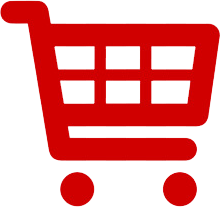
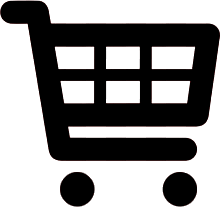
agregando un aside desplegable

diff --git a/css/estilo.css b/css/estilo.css
@@ -140,11 +140,11 @@ header{
 .carts a:hover{
     background: #fff;
     color: red;
-    border: solid 2px red;
+    border: solid 2px rgb(0, 0, 0);
     transition-duration: .3s;
 }
 
-/*float cart*/
+
 .cart-products .item img{
     width: 115px;
 }
@@ -184,3 +184,79 @@ header{
 .cart-products .item .item-content h5.cart-price{
     font-weight: 700;
 }
+
+.sidenav {
+    height: 100%; 
+    width: 0; 
+    position:fixed;
+    z-index: 1; 
+    top: 10;
+    left: 0;
+    background-color: #e4e4e8; 
+    overflow-x: hidden; 
+    padding-top: 60px; 
+    transition: 0.5s;
+}
+
+
+.sidenav a {
+    padding: 8px 8px 8px 32px;
+    text-decoration: none;
+    font-size: 25px;
+    font-weight: 600;
+    color: red;
+    display: block;
+    transition: 0.3s
+
+}
+
+
+.sidenav a:hover, .offcanvas a:focus{
+    color: black;
+}
+
+
+.sidenav .closebtn {
+    position: absolute;
+    top: 0;
+    right: 25px;
+    font-size: 36px;
+    margin-left: 50px;
+}
+
+#main {
+    transition: margin-left .5s;
+    padding: 20px;
+    overflow:hidden;
+    width:100%;
+}
+
+.topnav {
+    background-color: rgb(255, 0, 0);
+    overflow: hidden;
+}
+
+
+.topnav a {
+    float: left;
+    display: block;
+    color: #f2f2f2;
+    text-align: center;
+    padding: 14px 16px;
+    text-decoration: none;
+    font-size: 17px;
+}
+
+
+.topnav a:hover {
+    background-color: #ddd;
+    color: black
+}
+
+
+.topnav a.active {
+    background-color: #4CAF50;
+    color: white;
+}
+
+

diff --git a/index.html b/index.html
@@ -33,16 +33,21 @@
             </div>
         </div>
     </header>
-    <aside class="comidaTipo">
-        <ul>
-            <li><a href="#">Pizzas</a></li>
-            <li><a href="#">Carnes</a></li>
-            <li><a href="#">Pastas</a></li>
-            <li><a href="#">Mariscos</a></li>
-            <li><a href="#">Bar</a></li>
-            <li><a href="#">Cafeteria</a></li>
-        </ul>
-    </aside>
+    <div id="sideNavigation" class="sidenav">
+        <a href="javascript:void(0)" class="closebtn" onclick="closeNav()">&times;</a>
+        <a href="./index.html">Pizzas</a>
+        <a href="#">Carnes</a>
+        <a href="#">Pastas</a>
+    </div>
+    <nav class="topnav">
+        <a href="#" onclick="openNav()">
+            <svg width="30" height="30" id="icoOpen">
+                <path d="M0,5 30,5" stroke="#000" stroke-width="5"/>
+                <path d="M0,14 30,14" stroke="#000" stroke-width="5"/>
+                <path d="M0,23 30,23" stroke="#000" stroke-width="5"/>
+            </svg>
+        </a>
+    </nav>
     <section class="container">
         <div class="products">
             <div class="carts">
@@ -111,8 +116,8 @@
             </div>
             </div>
         </div>
-      </section>
-
+    </section>
+    
     <script>
         function showCart(x){
             document.getElementById("products-id").style.display = "block";

diff --git a/js/tienda.js b/js/tienda.js
@@ -145,3 +145,14 @@ function render(lista) {
 fetch ('https://jsonplaceholder.typicode.com/comments')
     .then((response) => response.json())
     .then((data) => render(data))
+
+
+
+    function openNav() {
+        document.getElementById("sideNavigation").style.width = "250px";
+        document.getElementById("main").style.marginLeft = "250px";
+    }
+    function closeNav() {
+        document.getElementById("sideNavigation").style.width = "0";
+        document.getElementById("main").style.marginLeft = "0";
+    }
